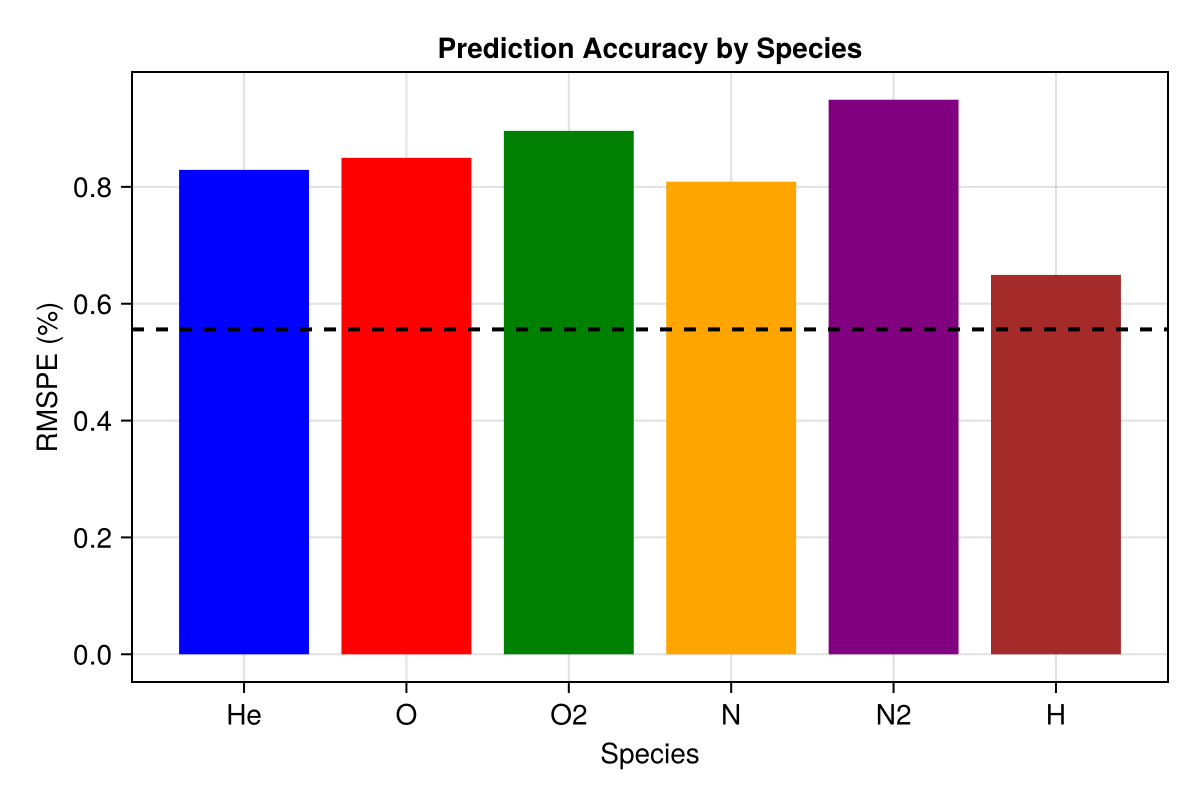
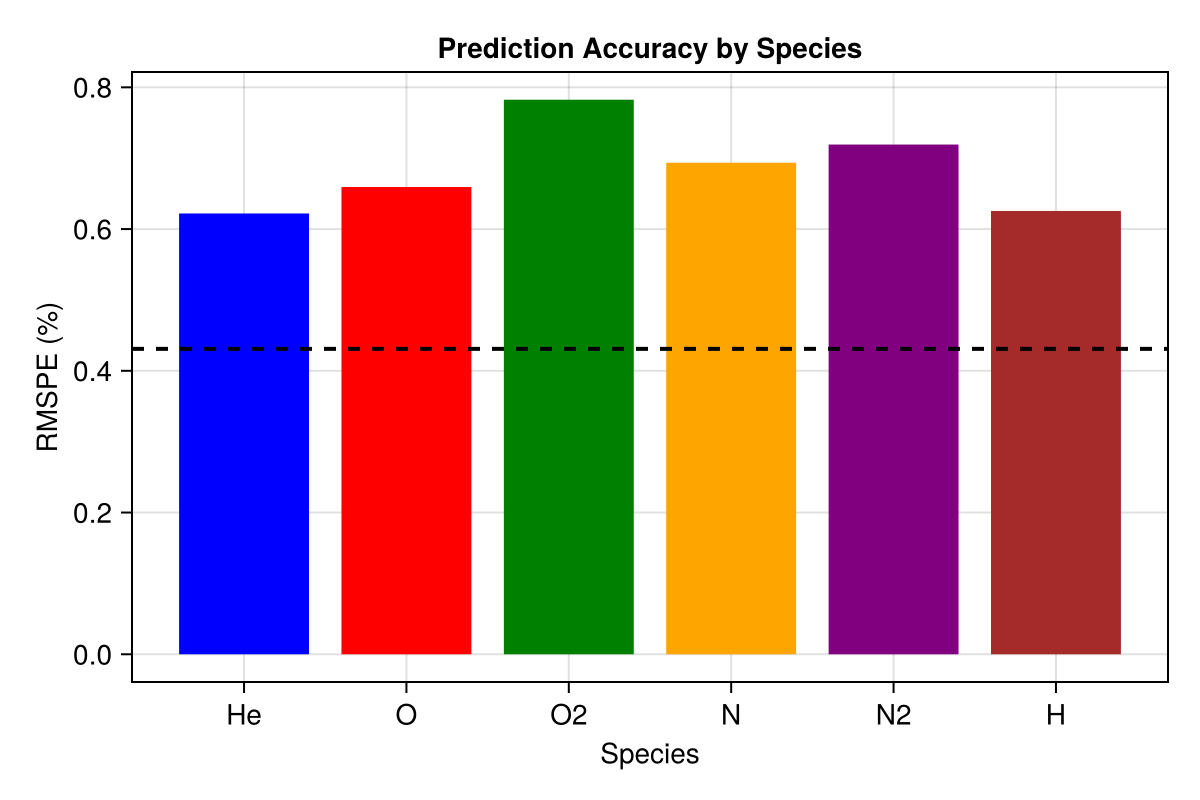
Update satellite example and MLE behavior

diff --git a/docs/src/examples/satellite.md b/docs/src/examples/satellite.md
@@ -114,16 +114,16 @@ rmspe_values = Dict{Symbol, Float64}()
 for species in species_list
     X_train, X_test, Y_train, Y_test = normalized[species]
 
-    # Get hyperparameter ranges
-    d_range = darg_sep(X_train)
-    g_range = garg(Y_train)
+    # Match R example: fixed starting d=2 and g=1e-6
+    m = size(X_train, 2)
+    d_start = fill(2.0, m)
+    g_fixed = 1e-6
 
-    d_start = [r.start for r in d_range.ranges]
-    d_ranges = [(r.min, r.max) for r in d_range.ranges]
-
-    # Fit GP
-    gp = new_gp_sep(X_train, Y_train, d_start, g_range.start)
-    jmle_gp_sep!(gp; drange=d_ranges, grange=(g_range.min, g_range.max))
+    # Fit GP (optimize lengthscales only; keep nugget fixed)
+    gp = new_gp_sep(X_train, Y_train, d_start, g_fixed)
+    tmin = sqrt(eps(eltype(X_train)))
+    tmax = m^2
+    mle_gp_sep!(gp, :d; tmin=tmin, tmax=tmax, maxit=200, dab=nothing)
 
     # Predict
     pred = pred_gp_sep(gp, X_test; lite=true)
